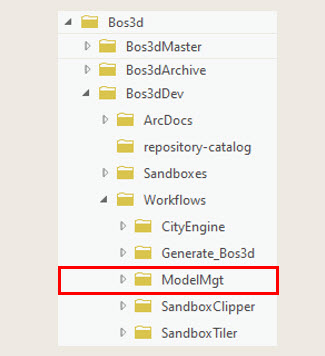
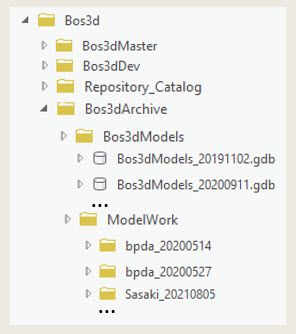
modified:   model_management/images/filesystem_context.jpg 	new file:   model_management/images/lifecycle_close.jpg 	new file:   model_management/images/lifecycle_init.jpg 	new file:   model_management/images/lifecycle_stage.jpg 	new file:   model_management/images/lifecycle_workflow.jpg 	modified: 

diff --git a/template/index.htm b/template/index.htm
@@ -62,15 +62,14 @@
 
 <h3 id="slideshow_element">Slideshows</h3>
 <p>The script, <b>slideshow_pbc.js</b> looks for any div with <b>class="slideshow:</b> and turns it into a slideshow with lots of features as you can see, above.  Ther slideshow div has to contain subdivisions that are <b>class="slideshow_container"</b> with more subdivisions as shown below:</p>
-
-
+<p>The value for <b>daya-playpaused</b> should be either <b>"playing"</b> or <b>"paused"</b>.  
 
 <pre>
   &lt;!-- Slideshow container --&gt;
   &lt;div id="moreslides" class="slideshow in-page" 
   data-imgheight = "250px" 
   data-title = "" 
-  data-playpaused = "paused"
+  data-playpaused = "paused" &gt;
   &lt;div class="slidecontainer" data-title="Wide Image" data-caption="Away up to tree-line."&gt;
   &lt;div class="slide"&gt;&lt;img src="./images/wide.jpg" &gt;&lt;/div&gt;
   &lt;div class="caption"&gt;&lt;p&gt;Now is the time for all good men to come to the Wide Image.  
@@ -97,7 +96,7 @@
 <div id="moreslides" class="slideshow in-page" 
 data-imgheight = "250px" 
 data-title = "" 
-data-playpaused = "paused"
+data-playpaused = "paused" 
 data-fadespeed = "10" >
 
 <div class="slidecontainer" data-title="Wide Image" data-caption="Away up to tree-line.">
@@ -112,11 +111,11 @@ data-fadespeed = "10" >
 
 <div class="slidecontainer" data-title="Tall Image" >
 <div class="slide"> <img src="./images/tall.jpg"></div>
-<div class="caption"><p>That image is mightty tall, but maxes out at 1005 .</p></div>
+<div class="caption"><p>That image is mighty tall, but maxes out at 1005 .</p></div>
 <div class="learnmore"><a href='#funfact'>Learn More about Tall Images</a></div>
 </div>
 
-</div> <!-- Closes ooslideshow-->
+</div> <!-- Closes moreslides-->
 
 <hr>
 
@@ -202,12 +201,13 @@ data-fadespeed = "10" >
     <li><b>target="outboard"</b>: Link to a reference page outside of citySchema.org.
   </ul>
 
-    <h3 id="blocks">Thematic Blocks</h3>
+    <h3 id="blocks">Feature Blocks</h3>
     <p>High-order conceptual ideas are discussed in the plain text.  
-    </p><p> Lists of steps are included in blue boxes, indented with a blue heading. and dark blue text. </p>
+    <p>Feature blocks help to break out other sorts of ideas.  
+
        <div class="feature procedure">
         <h3>A Procedure</h3>
-         <p>A div with <b>class="procedure"</b> has a heading, a short introduction, then a list of numbered steps</p>
+         <p>A div with <b>class="feature procedure"</b> has a heading, a short introduction, then a list of numbered steps</p>
          <ol>
            <li>First you do <b>Step One</b>.
            <li>Then you do <b>Step Two</b>.
@@ -215,15 +215,27 @@ data-fadespeed = "10" >
          <p>Then there might be a short statement of the ending condition.
        </div> <!--closes procedure -->
     <h3>More Text</h3>
-    <p>Then as things roll along, there is usually more conceptual description.  But before long, there might be a need for a sort of sidebar discussion.   These are topics that may be a zoom-in or a zoom-out.  These may be ideas that get linked to from other documents. These sidebars get a gold box but with the same bluish text.
+    <p>Then as things roll along, there is usually more conceptual description.  But before long, there might be a need for another sort of sidebar discussion.   These are topics that may be a zoom-in or a zoom-out.  These may be ideas that get linked to from other documents. These sidebars get a gold box but with the same bluish text.
     </p>
     <div id="funfact" class="feature funfact">
       <h3>A Fun Fact</h3>
-      <p>A div of <b>class="funfact"</b> starts out with an &lt;H3&gt; and then has some text explaining a sort of meta-topic that pertains to the ideas that surround it.  
-      <p>The topic might zoom in or zoom out relative to the context.
-      <p>this is the sort of thing that is likely tobe referred to from soe other page.       
+      <p>A div of <b>class="feature funfact"</b> starts out with an &lt;H3&gt; and then has some text explaining a sort of meta-topic that pertains to the ideas that surround it.  It may summarize issues discossed in more detail on another page. 
+      <p>The topic might zoom in or zoom out relative to the context.      
     </div> <!-- closes sidebar -->
    <p>Typically, the page would have some more text that closes up the big idea.  Maybe providing pointers about were else to go. 
+    <div id="tour" class="feature tour">
+    <h3>A Tour</h3>
+    <figure class="right">
+      <img src="images/tall.jpg">
+      <figcaption>Fig Right</figcaption>
+    </figure>
+
+    <p>A div of <b>class="feature tour"</b> provides a tour of the file-system or tool-box. 
+    <p>Notice the use of the <b>class="figure right"</b> in this box.  
+    <p>the html for the figure comes after the heading. 
+     
+    </div> <!-- closes sidebar -->
+
 
   </div> <!-- Closes #article div -->
   <div id="footer"> <!-- Content provided by cityschema_includes.js--> </div> 

diff --git a/model_management/index.htm b/model_management/index.htm
@@ -12,6 +12,8 @@
     <link rel="icon" href="../resources/images/favicon.png" type="image/x-icon">
     <script src="../resources/jquery/jquery-3.6.0.min.js"></script>
     <link href="../resources/cityschema.css" rel="stylesheet"> 
+    <script src="../resources/slideshow_pbc.js"></script>
+    <link href="../resources/slideshow_pbc.css" rel="stylesheet"> 
 
     <!-- The index sidebar and all content other than the main article coe form the cityschema_includes.js.
           When you add a new page or internalachcor, you should update the index in cityschema_includes.js.-->
@@ -87,7 +89,7 @@
 
 
     <figure class="right">
-      <img class="scaled" src="images/filesystem_context.jpg">
+      <img src="images/filesystem_context.jpg">
       <figcaption>Figure 1: City Model Filesystem Context</figcaption>
     </figure>
 
@@ -117,7 +119,7 @@
 
   <div class="feature tour">
     <figure class="right">
-      <img class="scaled" src="images/model_mgt_files.jpg">
+      <img src="images/model_mgt_files.jpg">
       <figcaption>Figure 2: Model Management Workspace</figcaption>
     </figure>
   <h3>Filesystem and Folders</h3>
@@ -152,11 +154,34 @@
 <h1 id="lifecycle">Lifecycle of a Model Management Workspace</h1>
 <p>A model management workspace is intended to produce new editions of the model collection that represent updates to the Prior Archived model collection.  In the lifespan of a model management workspace several new editions can be made based on the same Prior Archived collection.  The changes reflected by the Stage feature classes are cumulative.  When it is decided to change the Prior Archived collection to a newer edition, then a new Model Management workspace is initialized and all of the source data in ModelWork folder is copied to the main CTY3D_Archive folder. 
 
-
-  <figure class="middle">
-    <img class="scaled" src="images/wide.jpg">
-    <figcaption>Figure 3: Lifecycle of a Model Collection Management Workspace</figcaption>
-  </figure>
+    <!-- Slideshow container -->
+    <div id="moreslides" class="slideshow in-page" 
+    data-imgheight = "350px" 
+    data-title = "" 
+    data-playpaused = "playing" >
+    <div class="slidecontainer" data-title="Initialize Prior Archived Collection" data-caption="Away up to tree-line.">
+    <div class="slide"><img src="./images/lifecycle_init.jpg" ></div>
+    <div class="caption"><p>The workspace folder is initialized by copying the latest archived model collection geodatabase from the Archive folder.  These will remain read-only.</p>
+    </div>
+    <div class="learnmore">
+    </div></div>
+    <div class="slidecontainer" data-title="Populate Staging Feature Classes" >
+      <div class="slide"> <img src="./images/lifecycle_stage.jpg"></div>
+      <div class="caption"><p>After migrating the schema, if necessary, the prior feature classes are copied to the Stage geodatabase, where the records may be modified.</p></div>
+      <div class="learnmore"></div>
+    </div>
+    <div class="slidecontainer" data-title="Import Models, Stage Changes" >
+      <div class="slide"> <img src="./images/lifecycle_workflow.jpg"></div>
+      <div class="caption"><p>Models may nor be imported and edited, and existing models may have their attributes updated. </p>
+      <p>New editions of the collection are formed by sorting the new models and prior archived models according to their new status values. </div>
+      <div class="learnmore"></div>
+    </div>
+    <div class="slidecontainer" data-title="Import Models, Stage Changes" >
+      <div class="slide"> <img src="./images/lifecycle_close.jpg"></div>
+      <div class="caption"><p>Several new editions may be produced and several new model batches processed in a single model management workspace. At some point, the workspace wil be retired, with the latest edition and the model batches and the workspace itself being archived.  </p></div>
+      <div class="learnmore"></div>
+    </div>
+    </div> <!-- Closes moreslides-->
 
 <h3>The Stage Phase and Edit Rules</h3>
 <p>The Model Management workspace has three chambers: <b>Prior Archived</b>, <b>Stage</b> and <b>Next Edition</b>.  

diff --git a/resources/slideshow_pbc.css b/resources/slideshow_pbc.css
@@ -106,7 +106,7 @@ body {
 }
 
 .navleft  {
-  width: 40%;
+  width: 50%;
   display:flex;
   flex-direction:row;
 }
@@ -114,7 +114,8 @@ body {
 select.slidepicker  {
   border: none;
   height: 23px;
-  font-size: 17px;
+  font-size: 15px;
+  font-weight:700;
   width: 100%;
   /*width: 300px;*/
   cursor: pointer;
@@ -125,7 +126,7 @@ select.slidepicker  {
 
 .readmore {
   flex-grow: 2;
-  width: 50%;
+  width: 30%;
   text-align: center;
   margin:auto;
   /*flex-grow: 1;*/
@@ -153,7 +154,6 @@ select.slidepicker  {
   text-align: right;
   justify-content: space-between;
 }
-
 
 .caption  {
   padding: 0px 6px 6px 6px; 

diff --git a/resources/cityschema.css b/resources/cityschema.css
@@ -264,6 +264,8 @@ img.title {
   margin: 0.5em;
   margin-right: 2em;
   padding: 0em 0.5em 0.5em 0.5em;
+  overflow:auto;
+  clear: both;
 }
 
 .feature h3{
